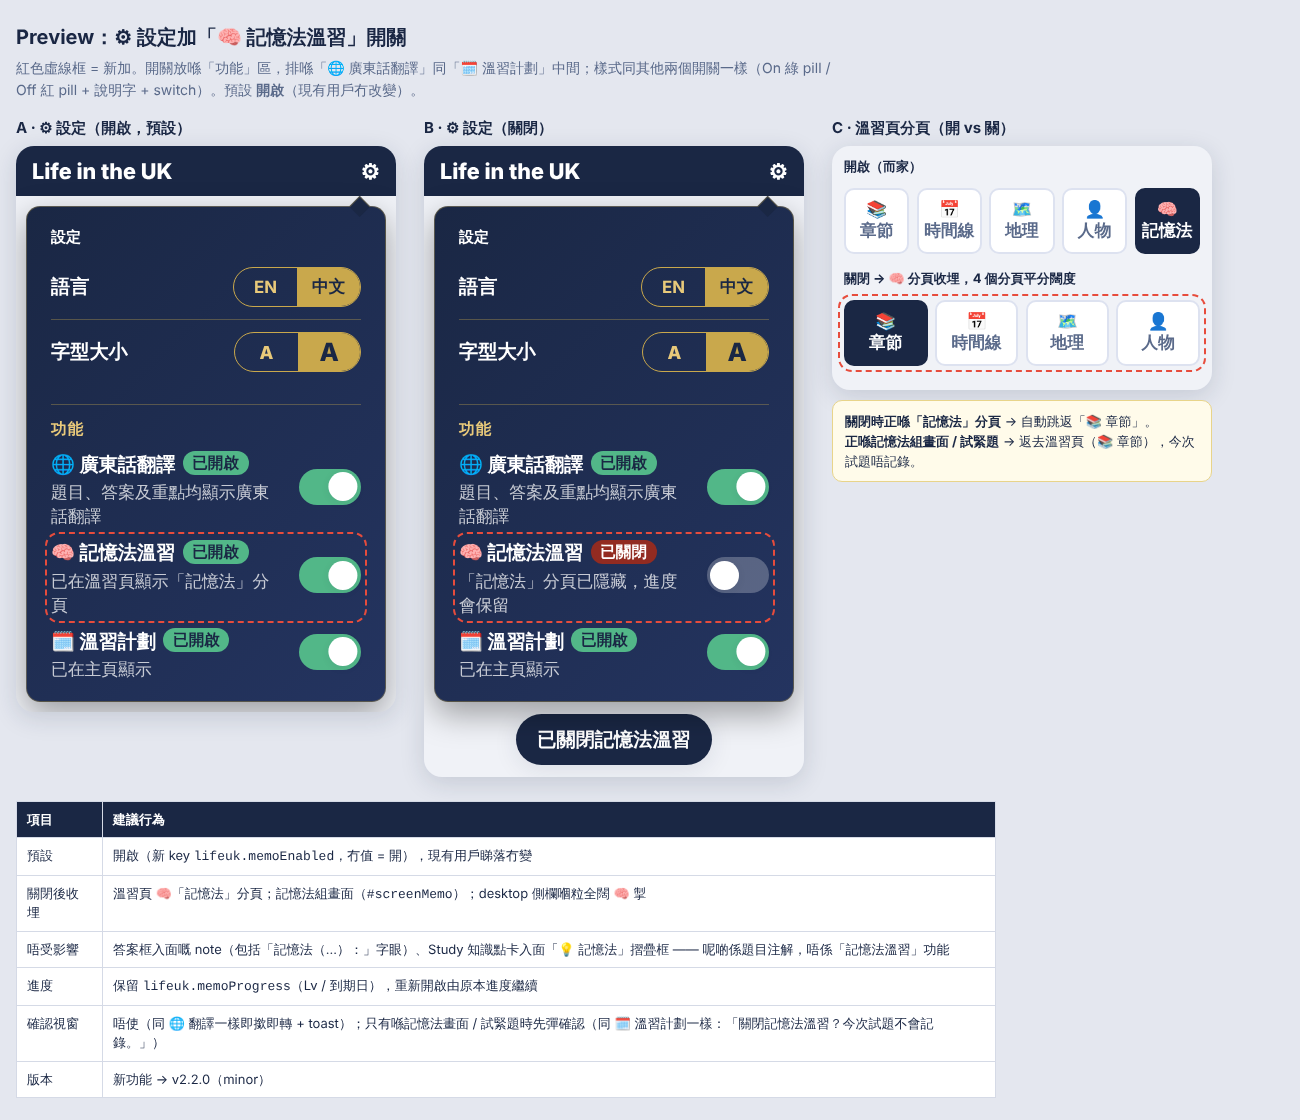
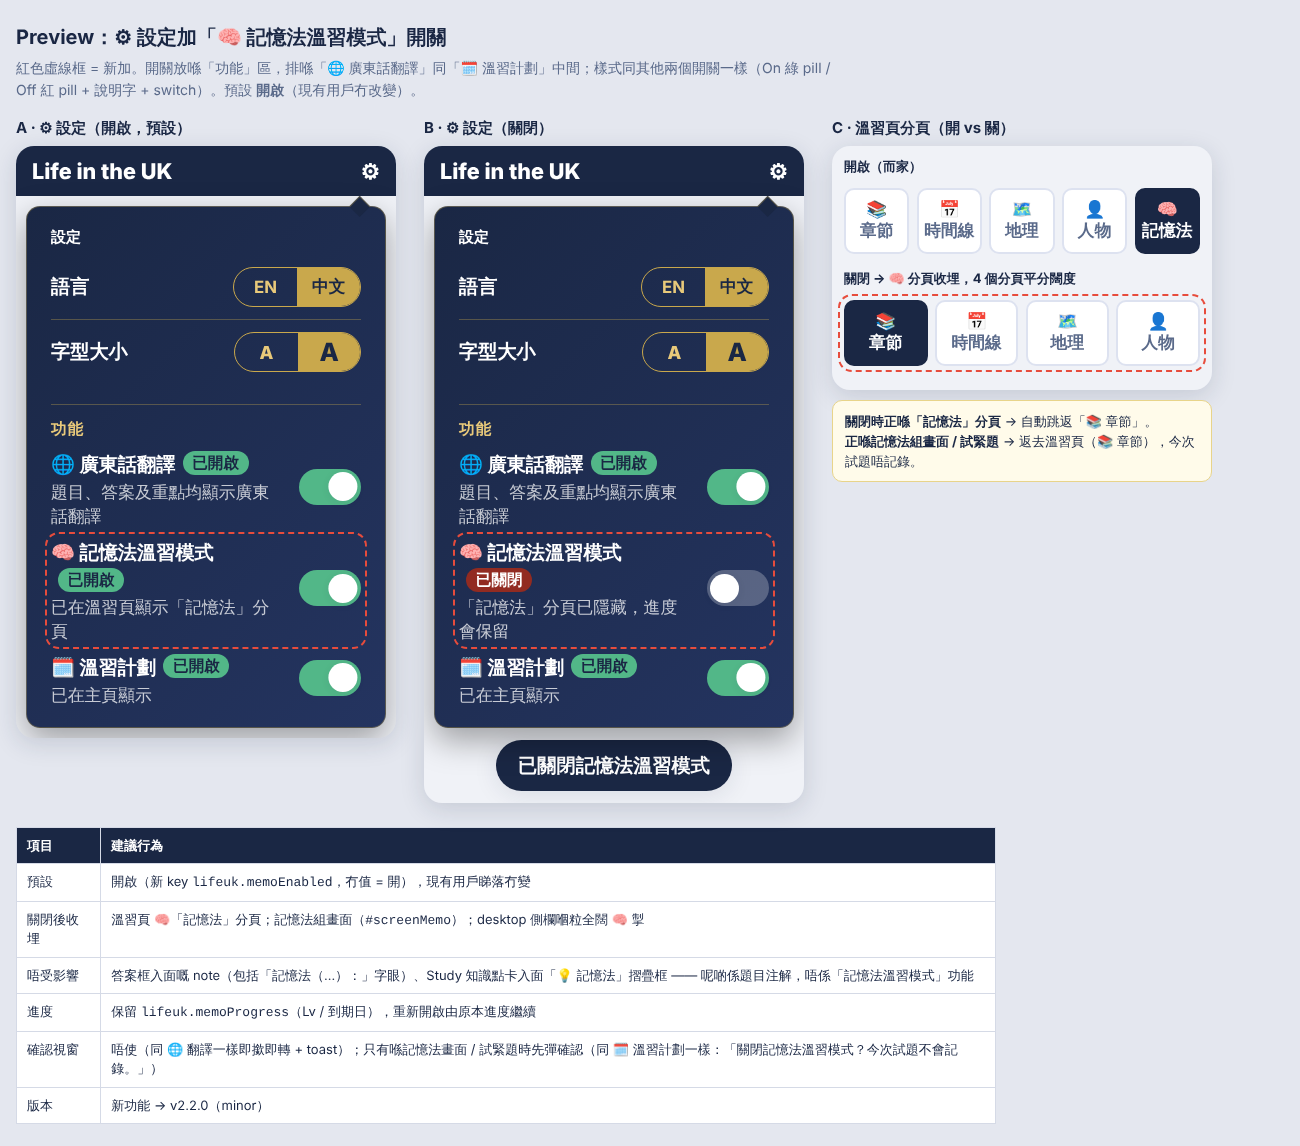
chore: rename memo switch label in preview
Claude-Session: https://claude.ai/code/session_0119D6eZuq1y3Qa6T7AKG7tK

diff --git a/mockups/memo-switch.html b/mockups/memo-switch.html
@@ -38,7 +38,7 @@
 </style>
 </head>
 <body>
-<h1>Preview：⚙ 設定加「🧠 記憶法溫習」開關</h1>
+<h1>Preview：⚙ 設定加「🧠 記憶法溫習模式」開關</h1>
 <p class="lead">紅色虛線框 = 新加。開關放喺「功能」區，排喺「🌐 廣東話翻譯」同「🗓 溫習計劃」中間；樣式同其他兩個開關一樣（On 綠 pill / Off 紅 pill + 說明字 + switch）。預設 <b>開啟</b>（現有用戶冇改變）。</p>
 
 <div class="grid">
@@ -58,7 +58,7 @@
             <span><button type="button" class="switch" role="switch" aria-checked="true"><i></i></button></span>
           </div>
           <div class="plan-setting-row new">
-            <span><b>🧠 記憶法溫習</b><span class="feature-pill on">已開啟</span><span class="plan-setting-note">已在溫習頁顯示「記憶法」分頁</span></span>
+            <span><b>🧠 記憶法溫習模式</b><span class="feature-pill on">已開啟</span><span class="plan-setting-note">已在溫習頁顯示「記憶法」分頁</span></span>
             <span><button type="button" class="switch" role="switch" aria-checked="true"><i></i></button></span>
           </div>
           <div class="plan-setting-row">
@@ -86,7 +86,7 @@
             <span><button type="button" class="switch" role="switch" aria-checked="true"><i></i></button></span>
           </div>
           <div class="plan-setting-row new">
-            <span><b>🧠 記憶法溫習</b><span class="feature-pill off">已關閉</span><span class="plan-setting-note">「記憶法」分頁已隱藏，進度會保留</span></span>
+            <span><b>🧠 記憶法溫習模式</b><span class="feature-pill off">已關閉</span><span class="plan-setting-note">「記憶法」分頁已隱藏，進度會保留</span></span>
             <span><button type="button" class="switch" role="switch" aria-checked="false"><i></i></button></span>
           </div>
           <div class="plan-setting-row">
@@ -95,7 +95,7 @@
           </div>
         </div>
       </div>
-      <div class="toast">已關閉記憶法溫習</div>
+      <div class="toast">已關閉記憶法溫習模式</div>
     </div>
   </div>
 
@@ -128,9 +128,9 @@
   <tr><th>項目</th><th>建議行為</th></tr>
   <tr><td>預設</td><td>開啟（新 key <code>lifeuk.memoEnabled</code>，冇值 = 開），現有用戶睇落冇變</td></tr>
   <tr><td>關閉後收埋</td><td>溫習頁 🧠「記憶法」分頁；記憶法組畫面（<code>#screenMemo</code>）；desktop 側欄嗰粒全闊 🧠 掣</td></tr>
-  <tr><td>唔受影響</td><td>答案框入面嘅 note（包括「記憶法（…）：」字眼）、Study 知識點卡入面「💡 記憶法」摺疊框 —— 呢啲係題目注解，唔係「記憶法溫習」功能</td></tr>
+  <tr><td>唔受影響</td><td>答案框入面嘅 note（包括「記憶法（…）：」字眼）、Study 知識點卡入面「💡 記憶法」摺疊框 —— 呢啲係題目注解，唔係「記憶法溫習模式」功能</td></tr>
   <tr><td>進度</td><td>保留 <code>lifeuk.memoProgress</code>（Lv / 到期日），重新開啟由原本進度繼續</td></tr>
-  <tr><td>確認視窗</td><td>唔使（同 🌐 翻譯一樣即撳即轉 + toast）；只有喺記憶法畫面 / 試緊題時先彈確認（同 🗓 溫習計劃一樣：「關閉記憶法溫習？今次試題不會記錄。」）</td></tr>
+  <tr><td>確認視窗</td><td>唔使（同 🌐 翻譯一樣即撳即轉 + toast）；只有喺記憶法畫面 / 試緊題時先彈確認（同 🗓 溫習計劃一樣：「關閉記憶法溫習模式？今次試題不會記錄。」）</td></tr>
   <tr><td>版本</td><td>新功能 → v2.2.0（minor）</td></tr>
 </table>
 </body>
